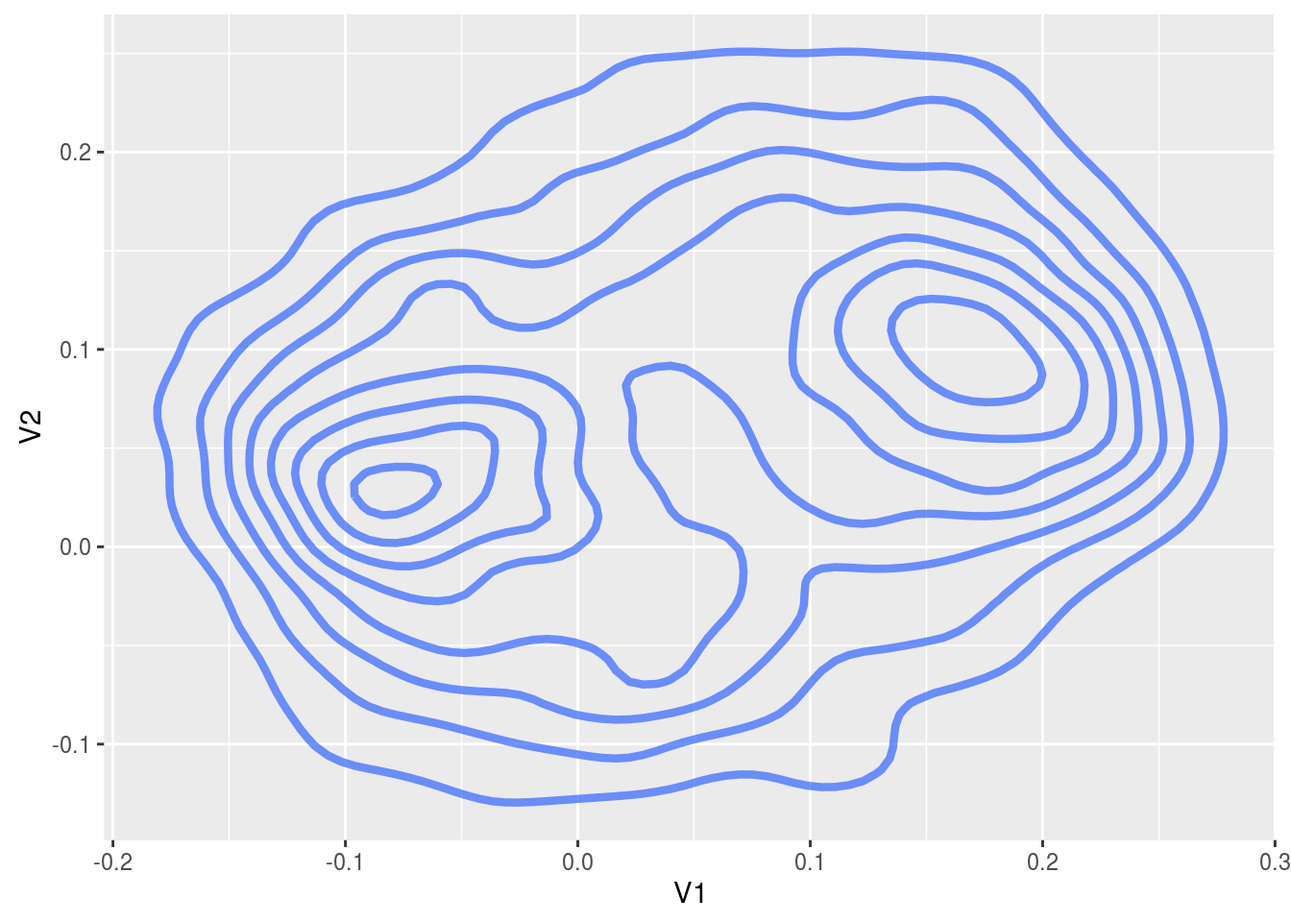
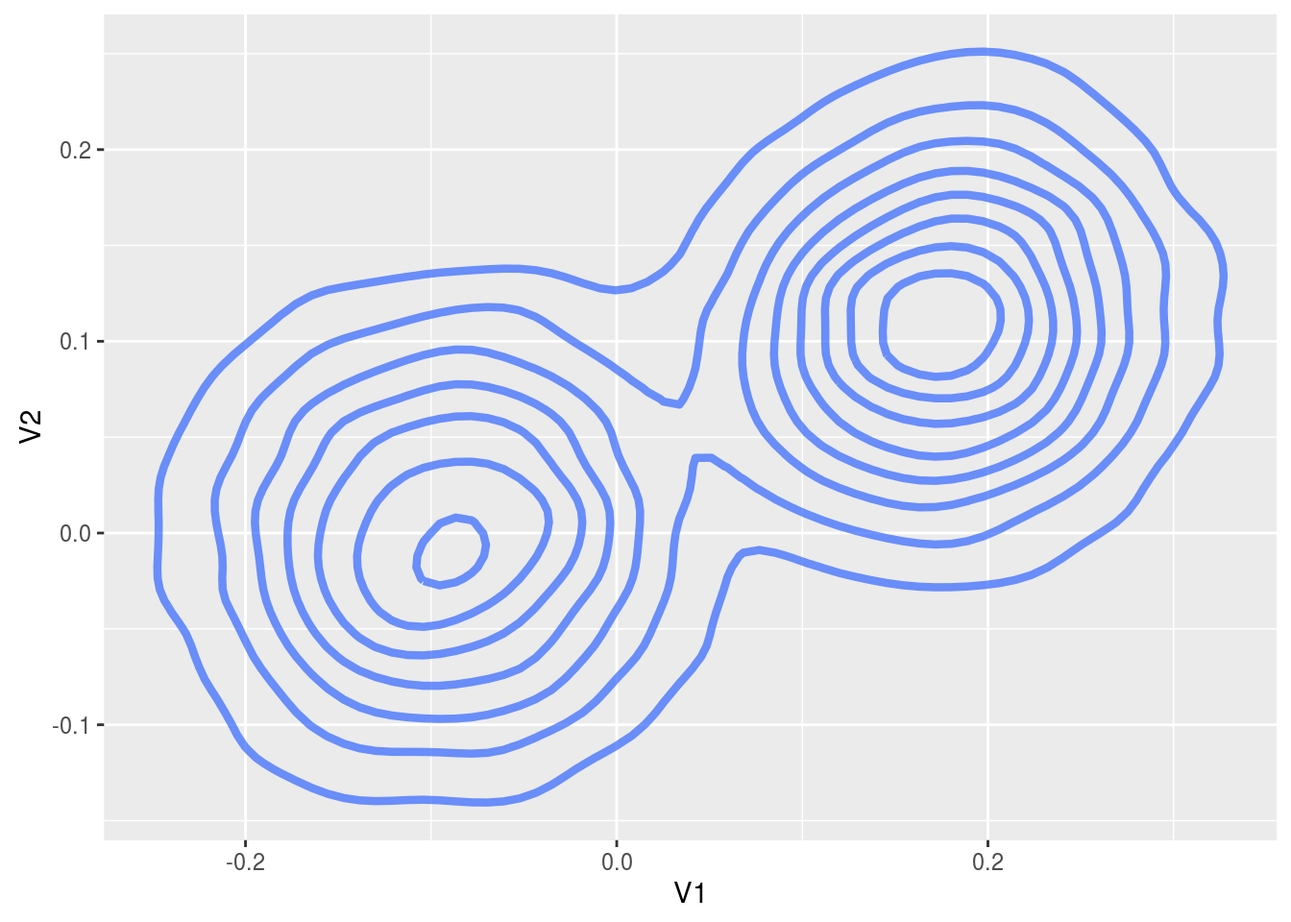
Fixed vignettes

diff --git a/docs/articles/gaussMixture.html b/docs/articles/gaussMixture.html
@@ -102,6 +102,7 @@ N =<span class="st"> </span><span class="dv">10</span>^<span class="dv">4</span>
 theta1 =<span class="st"> </span><span class="kw">c</span>( <span class="dv">0</span>, <span class="dv">0</span> )
 theta2 =<span class="st"> </span><span class="kw">c</span>( <span class="fl">0.1</span>, <span class="fl">0.1</span> )
 <span class="co"># Allocate observations to each component</span>
+<span class="kw">set.seed</span>(<span class="dv">13</span>)
 z =<span class="st"> </span><span class="kw">sample</span>( <span class="dv">2</span>, N, <span class="dt">replace =</span> <span class="ot">TRUE</span>, <span class="dt">prob =</span> <span class="kw">c</span>( <span class="fl">0.5</span>, <span class="fl">0.5</span> ) )
 <span class="co"># Predeclare data matrix</span>
 X =<span class="st"> </span><span class="kw">matrix</span>( <span class="kw">rep</span>( <span class="ot">NA</span>, <span class="dv">2</span>*N ), <span class="dt">ncol =</span> <span class="dv">2</span> )
@@ -145,122 +146,11 @@ dataset =<span class="st"> </span><span class="kw">list</span>(<span class="st">
     <span class="kw">return</span>( logPrior )
 }</code></pre></div>
 <p>Finally we set the tuning parameters for SGHMC, this is a list with the same names as the <code>params</code> list you defined earlier, and values are the stepsize for that parameter.</p>
-<div class="sourceCode"><pre class="sourceCode r"><code class="sourceCode r">stepsize =<span class="st"> </span><span class="kw">list</span>( <span class="st">"theta1"</span> =<span class="st"> </span><span class="fl">5e-6</span>, <span class="st">"theta2"</span> =<span class="st"> </span><span class="fl">5e-6</span> )</code></pre></div>
+<div class="sourceCode"><pre class="sourceCode r"><code class="sourceCode r">stepsize =<span class="st"> </span><span class="kw">list</span>( <span class="st">"theta1"</span> =<span class="st"> </span><span class="fl">2e-5</span>, <span class="st">"theta2"</span> =<span class="st"> </span><span class="fl">2e-5</span> )</code></pre></div>
 <p>Optionally, we can set the tuning parameter for the momentum <code>alpha</code> in the same way as the <code>stepsize</code>. But we’ll leave this along with the trajectory tuning constant <code>L</code>, and the <code>minibatchSize</code> as their defaults.</p>
-<p>Now we can run our SGHMC algorithm using the <code>sgmcmc</code> function <code>sghmc</code>, which returns a list of Markov chains for each parameter as output. Use the argument <code>verbose = FALSE</code> to hide the output of the function. We’ll set the number of iterations as <code>11000</code> to allow for <code>1000</code> iterations of burn-in.</p>
-<div class="sourceCode"><pre class="sourceCode r"><code class="sourceCode r">chains =<span class="st"> </span><span class="kw"><a href="../reference/sghmc.html">sghmc</a></span>( logLik, dataset, params, stepsize, <span class="dt">logPrior =</span> logPrior, <span class="dt">nIters =</span> <span class="dv">11000</span> )</code></pre></div>
-<pre><code>## 
-## Simulating from SGMCMC algorithm...</code></pre>
-<pre><code>## Iteration: 100       Log posterior estimate: -28719.369140625</code></pre>
-<pre><code>## Iteration: 200       Log posterior estimate: -29383.69921875</code></pre>
-<pre><code>## Iteration: 300       Log posterior estimate: -29427.1875</code></pre>
-<pre><code>## Iteration: 400       Log posterior estimate: -27538.099609375</code></pre>
-<pre><code>## Iteration: 500       Log posterior estimate: -28403.08203125</code></pre>
-<pre><code>## Iteration: 600       Log posterior estimate: -29618.3125</code></pre>
-<pre><code>## Iteration: 700       Log posterior estimate: -26516.8046875</code></pre>
-<pre><code>## Iteration: 800       Log posterior estimate: -28948.66015625</code></pre>
-<pre><code>## Iteration: 900       Log posterior estimate: -29428.353515625</code></pre>
-<pre><code>## Iteration: 1000      Log posterior estimate: -28317.662109375</code></pre>
-<pre><code>## Iteration: 1100      Log posterior estimate: -30113.087890625</code></pre>
-<pre><code>## Iteration: 1200      Log posterior estimate: -28836.306640625</code></pre>
-<pre><code>## Iteration: 1300      Log posterior estimate: -28544.11328125</code></pre>
-<pre><code>## Iteration: 1400      Log posterior estimate: -26969.271484375</code></pre>
-<pre><code>## Iteration: 1500      Log posterior estimate: -30244.40625</code></pre>
-<pre><code>## Iteration: 1600      Log posterior estimate: -27852.2578125</code></pre>
-<pre><code>## Iteration: 1700      Log posterior estimate: -28672.1328125</code></pre>
-<pre><code>## Iteration: 1800      Log posterior estimate: -28569.978515625</code></pre>
-<pre><code>## Iteration: 1900      Log posterior estimate: -29117.689453125</code></pre>
-<pre><code>## Iteration: 2000      Log posterior estimate: -27052.3515625</code></pre>
-<pre><code>## Iteration: 2100      Log posterior estimate: -28557.900390625</code></pre>
-<pre><code>## Iteration: 2200      Log posterior estimate: -27956.404296875</code></pre>
-<pre><code>## Iteration: 2300      Log posterior estimate: -28156.912109375</code></pre>
-<pre><code>## Iteration: 2400      Log posterior estimate: -28563.8515625</code></pre>
-<pre><code>## Iteration: 2500      Log posterior estimate: -28633.041015625</code></pre>
-<pre><code>## Iteration: 2600      Log posterior estimate: -29071.951171875</code></pre>
-<pre><code>## Iteration: 2700      Log posterior estimate: -28003.6328125</code></pre>
-<pre><code>## Iteration: 2800      Log posterior estimate: -28043.01953125</code></pre>
-<pre><code>## Iteration: 2900      Log posterior estimate: -27075.9453125</code></pre>
-<pre><code>## Iteration: 3000      Log posterior estimate: -31137.16015625</code></pre>
-<pre><code>## Iteration: 3100      Log posterior estimate: -29848.03125</code></pre>
-<pre><code>## Iteration: 3200      Log posterior estimate: -28094.62109375</code></pre>
-<pre><code>## Iteration: 3300      Log posterior estimate: -28197.140625</code></pre>
-<pre><code>## Iteration: 3400      Log posterior estimate: -29016.091796875</code></pre>
-<pre><code>## Iteration: 3500      Log posterior estimate: -27586.74609375</code></pre>
-<pre><code>## Iteration: 3600      Log posterior estimate: -29882.421875</code></pre>
-<pre><code>## Iteration: 3700      Log posterior estimate: -31118.888671875</code></pre>
-<pre><code>## Iteration: 3800      Log posterior estimate: -28034.296875</code></pre>
-<pre><code>## Iteration: 3900      Log posterior estimate: -30570.58984375</code></pre>
-<pre><code>## Iteration: 4000      Log posterior estimate: -30071.6796875</code></pre>
-<pre><code>## Iteration: 4100      Log posterior estimate: -28933.384765625</code></pre>
-<pre><code>## Iteration: 4200      Log posterior estimate: -27226.58203125</code></pre>
-<pre><code>## Iteration: 4300      Log posterior estimate: -28487.431640625</code></pre>
-<pre><code>## Iteration: 4400      Log posterior estimate: -28269.06640625</code></pre>
-<pre><code>## Iteration: 4500      Log posterior estimate: -28781.978515625</code></pre>
-<pre><code>## Iteration: 4600      Log posterior estimate: -27510.130859375</code></pre>
-<pre><code>## Iteration: 4700      Log posterior estimate: -28757.619140625</code></pre>
-<pre><code>## Iteration: 4800      Log posterior estimate: -28928.765625</code></pre>
-<pre><code>## Iteration: 4900      Log posterior estimate: -29603.771484375</code></pre>
-<pre><code>## Iteration: 5000      Log posterior estimate: -29092.431640625</code></pre>
-<pre><code>## Iteration: 5100      Log posterior estimate: -29123.265625</code></pre>
-<pre><code>## Iteration: 5200      Log posterior estimate: -27272.23828125</code></pre>
-<pre><code>## Iteration: 5300      Log posterior estimate: -27513.525390625</code></pre>
-<pre><code>## Iteration: 5400      Log posterior estimate: -26202.083984375</code></pre>
-<pre><code>## Iteration: 5500      Log posterior estimate: -29214.7734375</code></pre>
-<pre><code>## Iteration: 5600      Log posterior estimate: -28753.658203125</code></pre>
-<pre><code>## Iteration: 5700      Log posterior estimate: -29103.078125</code></pre>
-<pre><code>## Iteration: 5800      Log posterior estimate: -28998.171875</code></pre>
-<pre><code>## Iteration: 5900      Log posterior estimate: -29490.40234375</code></pre>
-<pre><code>## Iteration: 6000      Log posterior estimate: -29693.2578125</code></pre>
-<pre><code>## Iteration: 6100      Log posterior estimate: -30538.4609375</code></pre>
-<pre><code>## Iteration: 6200      Log posterior estimate: -28252.845703125</code></pre>
-<pre><code>## Iteration: 6300      Log posterior estimate: -28345.201171875</code></pre>
-<pre><code>## Iteration: 6400      Log posterior estimate: -29507.955078125</code></pre>
-<pre><code>## Iteration: 6500      Log posterior estimate: -28265.408203125</code></pre>
-<pre><code>## Iteration: 6600      Log posterior estimate: -29579.189453125</code></pre>
-<pre><code>## Iteration: 6700      Log posterior estimate: -29745.96875</code></pre>
-<pre><code>## Iteration: 6800      Log posterior estimate: -28311.5859375</code></pre>
-<pre><code>## Iteration: 6900      Log posterior estimate: -26832.41796875</code></pre>
-<pre><code>## Iteration: 7000      Log posterior estimate: -30470.15234375</code></pre>
-<pre><code>## Iteration: 7100      Log posterior estimate: -26968.400390625</code></pre>
-<pre><code>## Iteration: 7200      Log posterior estimate: -28493.611328125</code></pre>
-<pre><code>## Iteration: 7300      Log posterior estimate: -28206.962890625</code></pre>
-<pre><code>## Iteration: 7400      Log posterior estimate: -28784.126953125</code></pre>
-<pre><code>## Iteration: 7500      Log posterior estimate: -29283.021484375</code></pre>
-<pre><code>## Iteration: 7600      Log posterior estimate: -29409.041015625</code></pre>
-<pre><code>## Iteration: 7700      Log posterior estimate: -28869.142578125</code></pre>
-<pre><code>## Iteration: 7800      Log posterior estimate: -28275.88671875</code></pre>
-<pre><code>## Iteration: 7900      Log posterior estimate: -28763.619140625</code></pre>
-<pre><code>## Iteration: 8000      Log posterior estimate: -26169.0625</code></pre>
-<pre><code>## Iteration: 8100      Log posterior estimate: -29290.4921875</code></pre>
-<pre><code>## Iteration: 8200      Log posterior estimate: -29966.048828125</code></pre>
-<pre><code>## Iteration: 8300      Log posterior estimate: -29749.1171875</code></pre>
-<pre><code>## Iteration: 8400      Log posterior estimate: -28194.0078125</code></pre>
-<pre><code>## Iteration: 8500      Log posterior estimate: -28221.193359375</code></pre>
-<pre><code>## Iteration: 8600      Log posterior estimate: -31664.564453125</code></pre>
-<pre><code>## Iteration: 8700      Log posterior estimate: -29111.189453125</code></pre>
-<pre><code>## Iteration: 8800      Log posterior estimate: -32337.2265625</code></pre>
-<pre><code>## Iteration: 8900      Log posterior estimate: -26593.94140625</code></pre>
-<pre><code>## Iteration: 9000      Log posterior estimate: -29162.703125</code></pre>
-<pre><code>## Iteration: 9100      Log posterior estimate: -29858.796875</code></pre>
-<pre><code>## Iteration: 9200      Log posterior estimate: -30675.59375</code></pre>
-<pre><code>## Iteration: 9300      Log posterior estimate: -27055.330078125</code></pre>
-<pre><code>## Iteration: 9400      Log posterior estimate: -29754.302734375</code></pre>
-<pre><code>## Iteration: 9500      Log posterior estimate: -29872.865234375</code></pre>
-<pre><code>## Iteration: 9600      Log posterior estimate: -29504.390625</code></pre>
-<pre><code>## Iteration: 9700      Log posterior estimate: -27973.48828125</code></pre>
-<pre><code>## Iteration: 9800      Log posterior estimate: -30388.78125</code></pre>
-<pre><code>## Iteration: 9900      Log posterior estimate: -28682.033203125</code></pre>
-<pre><code>## Iteration: 10000     Log posterior estimate: -27773.330078125</code></pre>
-<pre><code>## Iteration: 10100     Log posterior estimate: -27842.634765625</code></pre>
-<pre><code>## Iteration: 10200     Log posterior estimate: -27997.08984375</code></pre>
-<pre><code>## Iteration: 10300     Log posterior estimate: -29380.32421875</code></pre>
-<pre><code>## Iteration: 10400     Log posterior estimate: -27242.87890625</code></pre>
-<pre><code>## Iteration: 10500     Log posterior estimate: -27683.48046875</code></pre>
-<pre><code>## Iteration: 10600     Log posterior estimate: -28486.1171875</code></pre>
-<pre><code>## Iteration: 10700     Log posterior estimate: -28491.369140625</code></pre>
-<pre><code>## Iteration: 10800     Log posterior estimate: -29544.869140625</code></pre>
-<pre><code>## Iteration: 10900     Log posterior estimate: -28308.736328125</code></pre>
-<pre><code>## Iteration: 11000     Log posterior estimate: -28156.31640625</code></pre>
+<p>Now we can run our SGHMC algorithm using the <code>sgmcmc</code> function <code>sghmc</code>, which returns a list of Markov chains for each parameter as output. Use the argument <code>verbose = FALSE</code> to hide the output of the function. To make the results reproducible we’ll set the seed to 13. We’ll set the number of iterations as <code>11000</code> to allow for <code>1000</code> iterations of burn-in.</p>
+<div class="sourceCode"><pre class="sourceCode r"><code class="sourceCode r">chains =<span class="st"> </span><span class="kw"><a href="../reference/sghmc.html">sghmc</a></span>( logLik, dataset, params, stepsize, <span class="dt">logPrior =</span> logPrior, <span class="dt">nIters =</span> <span class="dv">11000</span>, 
+        <span class="dt">verbose =</span> <span class="ot">FALSE</span>, <span class="dt">seed =</span> <span class="dv">13</span> )</code></pre></div>
 <p>Finally, we’ll plot the results after removing burn-in</p>
 <div class="sourceCode"><pre class="sourceCode r"><code class="sourceCode r"><span class="kw">library</span>(ggplot2)
 <span class="co"># Remove burn in</span>

diff --git a/docs/articles/mvGauss.html b/docs/articles/mvGauss.html
@@ -101,6 +101,7 @@ N =<span class="st"> </span><span class="dv">10</span>^<span class="dv">4</span>
 <span class="co"># Set theta to be 0 and simulate the data</span>
 theta =<span class="st"> </span><span class="kw">c</span>( <span class="dv">0</span>, <span class="dv">0</span> )
 Sigma =<span class="st"> </span><span class="kw">diag</span>(<span class="dv">2</span>)
+<span class="kw">set.seed</span>(<span class="dv">13</span>)
 X =<span class="st"> </span><span class="kw"><a href="http://www.rdocumentation.org/packages/MASS/topics/mvrnorm">mvrnorm</a></span>( N, theta, Sigma )
 dataset =<span class="st"> </span><span class="kw">list</span>(<span class="st">"X"</span> =<span class="st"> </span>X)</code></pre></div>
 <p>In the last line we defined the dataset as it will be input to the relevant <code>sgmcmc</code> function. A lot of the inputs to functions in <code>sgmcmc</code> are defined as lists. This improves flexibility by enabling models to be specified with multiple parameters, datasets and allows separate tuning constants to be set for each parameter. We assume that observations are always accessed on the first dimension of each object, i.e. the point <span class="math inline">\(x_i\)</span> is located at <code>X[i,]</code> rather than <code>X[,i]</code>. Similarly the observation <span class="math inline">\(i\)</span> from a 3d object <code>Y</code> would be located at <code>Y[i,,]</code>.</p>
@@ -126,110 +127,9 @@ dataset =<span class="st"> </span><span class="kw">list</span>(<span class="st">
 <div class="sourceCode"><pre class="sourceCode r"><code class="sourceCode r">stepsize =<span class="st"> </span><span class="kw">list</span>( <span class="st">"theta"</span> =<span class="st"> </span><span class="fl">1e-5</span> )
 n =<span class="st"> </span><span class="dv">100</span></code></pre></div>
 <p>The stepsize parameters may require a bit of tuning before you get good results. The shorthand <code>stepsize = 1e-5</code> can be used, which would set the stepsize of all parameters to be <code>1e-5</code>.</p>
-<p>Now we can run our SGLD algorithm using the <code>sgmcmc</code> function <code>sgld</code>, which returns a list of Markov chains for each parameter as output. Use the argument <code>verbose = FALSE</code> to hide the output of the function</p>
-<div class="sourceCode"><pre class="sourceCode r"><code class="sourceCode r">chains =<span class="st"> </span><span class="kw"><a href="../reference/sgld.html">sgld</a></span>( logLik, dataset, params, stepsize, <span class="dt">logPrior =</span> logPrior, <span class="dt">minibatchSize =</span> n)</code></pre></div>
-<pre><code>## 
-## Simulating from SGMCMC algorithm...</code></pre>
-<pre><code>## Iteration: 100       Log posterior estimate: -28428.341796875</code></pre>
-<pre><code>## Iteration: 200       Log posterior estimate: -29417.0703125</code></pre>
-<pre><code>## Iteration: 300       Log posterior estimate: -27884.021484375</code></pre>
-<pre><code>## Iteration: 400       Log posterior estimate: -28420.42578125</code></pre>
-<pre><code>## Iteration: 500       Log posterior estimate: -29067.966796875</code></pre>
-<pre><code>## Iteration: 600       Log posterior estimate: -27948.66796875</code></pre>
-<pre><code>## Iteration: 700       Log posterior estimate: -27362.54296875</code></pre>
-<pre><code>## Iteration: 800       Log posterior estimate: -29005.197265625</code></pre>
-<pre><code>## Iteration: 900       Log posterior estimate: -28715.779296875</code></pre>
-<pre><code>## Iteration: 1000      Log posterior estimate: -27714.4453125</code></pre>
-<pre><code>## Iteration: 1100      Log posterior estimate: -28110.001953125</code></pre>
-<pre><code>## Iteration: 1200      Log posterior estimate: -27506.828125</code></pre>
-<pre><code>## Iteration: 1300      Log posterior estimate: -30454.099609375</code></pre>
-<pre><code>## Iteration: 1400      Log posterior estimate: -28035.814453125</code></pre>
-<pre><code>## Iteration: 1500      Log posterior estimate: -29121.677734375</code></pre>
-<pre><code>## Iteration: 1600      Log posterior estimate: -27398.033203125</code></pre>
-<pre><code>## Iteration: 1700      Log posterior estimate: -26906.67578125</code></pre>
-<pre><code>## Iteration: 1800      Log posterior estimate: -28810.4296875</code></pre>
-<pre><code>## Iteration: 1900      Log posterior estimate: -28685.619140625</code></pre>
-<pre><code>## Iteration: 2000      Log posterior estimate: -28313.107421875</code></pre>
-<pre><code>## Iteration: 2100      Log posterior estimate: -30114.875</code></pre>
-<pre><code>## Iteration: 2200      Log posterior estimate: -27902.228515625</code></pre>
-<pre><code>## Iteration: 2300      Log posterior estimate: -29135.34375</code></pre>
-<pre><code>## Iteration: 2400      Log posterior estimate: -27819.720703125</code></pre>
-<pre><code>## Iteration: 2500      Log posterior estimate: -28279.0390625</code></pre>
-<pre><code>## Iteration: 2600      Log posterior estimate: -28195.15234375</code></pre>
-<pre><code>## Iteration: 2700      Log posterior estimate: -29552.658203125</code></pre>
-<pre><code>## Iteration: 2800      Log posterior estimate: -27952.54296875</code></pre>
-<pre><code>## Iteration: 2900      Log posterior estimate: -28244.400390625</code></pre>
-<pre><code>## Iteration: 3000      Log posterior estimate: -28956.638671875</code></pre>
-<pre><code>## Iteration: 3100      Log posterior estimate: -28250.30859375</code></pre>
-<pre><code>## Iteration: 3200      Log posterior estimate: -28743.73828125</code></pre>
-<pre><code>## Iteration: 3300      Log posterior estimate: -28073.431640625</code></pre>
-<pre><code>## Iteration: 3400      Log posterior estimate: -29016.97265625</code></pre>
-<pre><code>## Iteration: 3500      Log posterior estimate: -29252.048828125</code></pre>
-<pre><code>## Iteration: 3600      Log posterior estimate: -27981.2109375</code></pre>
-<pre><code>## Iteration: 3700      Log posterior estimate: -27039.083984375</code></pre>
-<pre><code>## Iteration: 3800      Log posterior estimate: -28848.3984375</code></pre>
-<pre><code>## Iteration: 3900      Log posterior estimate: -28582.38671875</code></pre>
-<pre><code>## Iteration: 4000      Log posterior estimate: -26189.544921875</code></pre>
-<pre><code>## Iteration: 4100      Log posterior estimate: -29544.181640625</code></pre>
-<pre><code>## Iteration: 4200      Log posterior estimate: -26145.712890625</code></pre>
-<pre><code>## Iteration: 4300      Log posterior estimate: -28617.642578125</code></pre>
-<pre><code>## Iteration: 4400      Log posterior estimate: -28524.443359375</code></pre>
-<pre><code>## Iteration: 4500      Log posterior estimate: -26953.5078125</code></pre>
-<pre><code>## Iteration: 4600      Log posterior estimate: -28087.634765625</code></pre>
-<pre><code>## Iteration: 4700      Log posterior estimate: -28415.9765625</code></pre>
-<pre><code>## Iteration: 4800      Log posterior estimate: -30994.251953125</code></pre>
-<pre><code>## Iteration: 4900      Log posterior estimate: -27977.830078125</code></pre>
-<pre><code>## Iteration: 5000      Log posterior estimate: -25856.615234375</code></pre>
-<pre><code>## Iteration: 5100      Log posterior estimate: -28064.4453125</code></pre>
-<pre><code>## Iteration: 5200      Log posterior estimate: -27441.1171875</code></pre>
-<pre><code>## Iteration: 5300      Log posterior estimate: -28263.224609375</code></pre>
-<pre><code>## Iteration: 5400      Log posterior estimate: -29668.052734375</code></pre>
-<pre><code>## Iteration: 5500      Log posterior estimate: -26580.826171875</code></pre>
-<pre><code>## Iteration: 5600      Log posterior estimate: -26733.357421875</code></pre>
-<pre><code>## Iteration: 5700      Log posterior estimate: -27492.119140625</code></pre>
-<pre><code>## Iteration: 5800      Log posterior estimate: -25981.529296875</code></pre>
-<pre><code>## Iteration: 5900      Log posterior estimate: -28201.31640625</code></pre>
-<pre><code>## Iteration: 6000      Log posterior estimate: -26659.74609375</code></pre>
-<pre><code>## Iteration: 6100      Log posterior estimate: -28312.318359375</code></pre>
-<pre><code>## Iteration: 6200      Log posterior estimate: -28489.748046875</code></pre>
-<pre><code>## Iteration: 6300      Log posterior estimate: -27967.69140625</code></pre>
-<pre><code>## Iteration: 6400      Log posterior estimate: -27962.232421875</code></pre>
-<pre><code>## Iteration: 6500      Log posterior estimate: -27404.94140625</code></pre>
-<pre><code>## Iteration: 6600      Log posterior estimate: -29440.0546875</code></pre>
-<pre><code>## Iteration: 6700      Log posterior estimate: -28145.63671875</code></pre>
-<pre><code>## Iteration: 6800      Log posterior estimate: -27360.572265625</code></pre>
-<pre><code>## Iteration: 6900      Log posterior estimate: -27016.3828125</code></pre>
-<pre><code>## Iteration: 7000      Log posterior estimate: -26899.478515625</code></pre>
-<pre><code>## Iteration: 7100      Log posterior estimate: -28412.623046875</code></pre>
-<pre><code>## Iteration: 7200      Log posterior estimate: -26459.2265625</code></pre>
-<pre><code>## Iteration: 7300      Log posterior estimate: -26993.330078125</code></pre>
-<pre><code>## Iteration: 7400      Log posterior estimate: -28671.8671875</code></pre>
-<pre><code>## Iteration: 7500      Log posterior estimate: -26841.708984375</code></pre>
-<pre><code>## Iteration: 7600      Log posterior estimate: -28045.658203125</code></pre>
-<pre><code>## Iteration: 7700      Log posterior estimate: -28832.966796875</code></pre>
-<pre><code>## Iteration: 7800      Log posterior estimate: -28744.751953125</code></pre>
-<pre><code>## Iteration: 7900      Log posterior estimate: -27359.291015625</code></pre>
-<pre><code>## Iteration: 8000      Log posterior estimate: -28128.703125</code></pre>
-<pre><code>## Iteration: 8100      Log posterior estimate: -27778.12890625</code></pre>
-<pre><code>## Iteration: 8200      Log posterior estimate: -27634.57421875</code></pre>
-<pre><code>## Iteration: 8300      Log posterior estimate: -27608.966796875</code></pre>
-<pre><code>## Iteration: 8400      Log posterior estimate: -27216.728515625</code></pre>
-<pre><code>## Iteration: 8500      Log posterior estimate: -28224.13671875</code></pre>
-<pre><code>## Iteration: 8600      Log posterior estimate: -29911.912109375</code></pre>
-<pre><code>## Iteration: 8700      Log posterior estimate: -28497.734375</code></pre>
-<pre><code>## Iteration: 8800      Log posterior estimate: -28329.220703125</code></pre>
-<pre><code>## Iteration: 8900      Log posterior estimate: -28304.5546875</code></pre>
-<pre><code>## Iteration: 9000      Log posterior estimate: -29003.556640625</code></pre>
-<pre><code>## Iteration: 9100      Log posterior estimate: -27501.759765625</code></pre>
-<pre><code>## Iteration: 9200      Log posterior estimate: -27819.474609375</code></pre>
-<pre><code>## Iteration: 9300      Log posterior estimate: -26788.828125</code></pre>
-<pre><code>## Iteration: 9400      Log posterior estimate: -29219.9375</code></pre>
-<pre><code>## Iteration: 9500      Log posterior estimate: -28447.578125</code></pre>
-<pre><code>## Iteration: 9600      Log posterior estimate: -28826.3046875</code></pre>
-<pre><code>## Iteration: 9700      Log posterior estimate: -27940.66015625</code></pre>
-<pre><code>## Iteration: 9800      Log posterior estimate: -29051.28515625</code></pre>
-<pre><code>## Iteration: 9900      Log posterior estimate: -27574.6171875</code></pre>
-<pre><code>## Iteration: 10000     Log posterior estimate: -29370.17578125</code></pre>
+<p>Now we can run our SGLD algorithm using the <code>sgmcmc</code> function <code>sgld</code>, which returns a list of Markov chains for each parameter as output. To make the results reproducible we’ll set the seed to 13. Use the argument <code>verbose = FALSE</code> to hide the output of the function</p>
+<div class="sourceCode"><pre class="sourceCode r"><code class="sourceCode r">chains =<span class="st"> </span><span class="kw"><a href="../reference/sgld.html">sgld</a></span>( logLik, dataset, params, stepsize, <span class="dt">logPrior =</span> logPrior, <span class="dt">minibatchSize =</span> n, 
+              <span class="dt">verbose =</span> <span class="ot">FALSE</span>, <span class="dt">seed =</span> <span class="dv">13</span> )</code></pre></div>
 <p>Finally we’ll plot the results after removing burn-in</p>
 <div class="sourceCode"><pre class="sourceCode r"><code class="sourceCode r"><span class="kw">library</span>(ggplot2)
 burnIn =<span class="st"> </span><span class="dv">10</span>^<span class="dv">3</span>

diff --git a/docs/articles/logisticRegression.html b/docs/articles/logisticRegression.html
@@ -100,7 +100,8 @@
 <span class="co"># Download and load covertype dataset</span>
 covertype =<span class="st"> </span><span class="kw"><a href="../reference/getDataset.html">getDataset</a></span>(<span class="st">"covertype"</span>)</code></pre></div>
 <p>First we’ll remove about 10000 observations from the original dataset to form a test set, this will be used to check the validity of the algorithm. Then we’ll separate out the response variable <code>y</code> and the explanatory variables <code>X</code>. The response variable is the first column in the dataset.</p>
-<div class="sourceCode"><pre class="sourceCode r"><code class="sourceCode r">testObservations =<span class="st"> </span><span class="kw">sample</span>(<span class="kw">nrow</span>(covertype), <span class="dv">10</span>^<span class="dv">4</span>)
+<div class="sourceCode"><pre class="sourceCode r"><code class="sourceCode r"><span class="kw">set.seed</span>(<span class="dv">13</span>)
+testObservations =<span class="st"> </span><span class="kw">sample</span>(<span class="kw">nrow</span>(covertype), <span class="dv">10</span>^<span class="dv">4</span>)
 testSet =<span class="st"> </span>covertype[testObservations,]
 X =<span class="st"> </span>covertype[-<span class="kw">c</span>(testObservations),<span class="dv">2</span>:<span class="kw">ncol</span>(covertype)]
 y =<span class="st"> </span>covertype[-<span class="kw">c</span>(testObservations),<span class="dv">1</span>]
@@ -122,25 +123,22 @@ params =<span class="st"> </span><span class="kw">list</span>( <span class="st">
     <span class="kw">return</span>(logPrior)
 }</code></pre></div>
 <p>Finally, we’ll set the stepsize parameters for the algorithm, along with the minibatch size. <code>sgldcv</code> relies on two stepsize parameters, one for the optimization step and one for the MCMC step. To allow stepsizes to be set for different parameters, the form of the stepsizes for the MCMC will be lists with names corresponding to each of the names in <code>params</code>. The optimization step will just be one value as the stepsize is automatically tuned</p>
-<div class="sourceCode"><pre class="sourceCode r"><code class="sourceCode r">stepsizesMCMC =<span class="st"> </span><span class="kw">list</span>(<span class="st">"beta"</span> =<span class="st"> </span><span class="fl">2e-5</span>, <span class="st">"bias"</span> =<span class="st"> </span><span class="fl">2e-5</span>)
-stepsizesOptimization =<span class="st"> </span><span class="fl">1e-1</span></code></pre></div>
+<div class="sourceCode"><pre class="sourceCode r"><code class="sourceCode r">stepsizesMCMC =<span class="st"> </span><span class="kw">list</span>(<span class="st">"beta"</span> =<span class="st"> </span><span class="fl">5e-6</span>, <span class="st">"bias"</span> =<span class="st"> </span><span class="fl">5e-6</span>)
+stepsizesOptimization =<span class="st"> </span><span class="fl">5e-6</span></code></pre></div>
 <p>Alternatively, we can simply use the shortcut <code>stepsizesMCMC = 2e-5</code> which would set the stepsizes for each parameter to <code>2e-5</code>. The optimization step is performed using the <code>TensorFlow</code> <code>AdamOptimizer</code>.</p>
-<p>Now we can run our SGLD-CV algorithm using the function <code>sgldcv</code> from the <code>sgmcmc</code> package, which returns a list of Markov chains for each parameter as output. Use the argument <code>verbose = FALSE</code> to hide the output of the function. As the dataset size is quite large, we’ll change the <code>minibatchSize</code> from its default <code>0.01 * N</code> to <code>500</code>. To allow a small 1000 iteration burn-in we’ll set the number of iterations to be 11000</p>
-<div class="sourceCode"><pre class="sourceCode r"><code class="sourceCode r">output =<span class="st"> </span><span class="kw"><a href="../reference/sgldcv.html">sgldcv</a></span>(logLik, dataset, params, stepsizesMCMC, stepsizesOptimization, <span class="dt">logPrior =</span> logPrior, <span class="dt">minibatchSize =</span> <span class="dv">500</span>, <span class="dt">nIters =</span> <span class="dv">11000</span> ) </code></pre></div>
-<pre><code>## 
-## Finding initial MAP estimates...</code></pre>
-<pre><code>## Not all tensorflow dependencies are met so skipping this...
-## Try running tensorflow::install_tensorflow().</code></pre>
-<p>To check the algorithm converged, we’ll plot the average log-predictive density of the data from our test set every 10 iterations. Let <span class="math display">\[\hat \pi_i^{(j)} := \frac{1}{1 + \exp\left[-\beta_0^{(j)} - \mathbf x_i \beta^{(j)}\right]},\]</span> here <span class="math inline">\(\hat \pi_i^{(j)}\)</span> denotes the probability that the <span class="math inline">\(j^{\text{th}}\)</span> iteration of our MCMC chain assigned to observation <span class="math inline">\(i\)</span> is in our test set. Define our test set by <span class="math inline">\(T\)</span>, the average log-predictive density is given by <span class="math display">\[A := \frac{1}{|T|} \sum_{y_i \in T} \left[ y_i \log \hat \pi_i^{(j)} + (1 - y_i) \log(1 - \hat \pi_i^{(j)}) \right]\]</span></p>
-<p>To check convergence, we’ll plot the average log-predictive density every 10 iterations as follows</p>
+<p>Now we can run our SGLD-CV algorithm using the function <code>sgldcv</code> from the <code>sgmcmc</code> package, which returns a list of Markov chains for each parameter as output. Use the argument <code>verbose = FALSE</code> to hide the output of the function. To make the results reproducible we’ll set the seed to 13. As the dataset size is quite large, we’ll change the <code>minibatchSize</code> from its default <code>0.01 * N</code> to <code>500</code>. To allow a small 1000 iteration burn-in we’ll set the number of iterations to be 11000</p>
+<div class="sourceCode"><pre class="sourceCode r"><code class="sourceCode r">output =<span class="st"> </span><span class="kw"><a href="../reference/sgldcv.html">sgldcv</a></span>(logLik, dataset, params, stepsizesMCMC, stepsizesOptimization, <span class="dt">logPrior =</span> logPrior, 
+        <span class="dt">minibatchSize =</span> <span class="dv">500</span>, <span class="dt">nIters =</span> <span class="dv">11000</span>, <span class="dt">verbose =</span> <span class="ot">FALSE</span>, <span class="dt">seed =</span> <span class="dv">13</span> ) </code></pre></div>
+<p>A common performance measure for a classifier is the <a href="https://www.kaggle.com/wiki/LogLoss">log loss</a>. To check the algorithm converged, we’ll plot the log loss of the data from our test set every 10 iterations. Let <span class="math display">\[\hat \pi_i^{(j)} := \frac{1}{1 + \exp\left[-\beta_0^{(j)} - \mathbf x_i \beta^{(j)}\right]},\]</span> here <span class="math inline">\(\hat \pi_i^{(j)}\)</span> denotes the probability that the <span class="math inline">\(j^{\text{th}}\)</span> iteration of our MCMC chain assigned to observation <span class="math inline">\(i\)</span> is in our test set. Define our test set by <span class="math inline">\(T\)</span>, the log loss is given by <span class="math display">\[A := \frac{1}{|T|} \sum_{y_i \in T} \left[ y_i \log \hat \pi_i^{(j)} + (1 - y_i) \log(1 - \hat \pi_i^{(j)}) \right]\]</span></p>
+<p>To check convergence, we’ll plot the log loss every 10 iterations as follows</p>
 <div class="sourceCode"><pre class="sourceCode r"><code class="sourceCode r">yTest =<span class="st"> </span>testSet[,<span class="dv">1</span>]
 XTest =<span class="st"> </span>testSet[,<span class="dv">2</span>:<span class="kw">ncol</span>(testSet)]
 <span class="co"># Remove burn-in</span>
 output$bias =<span class="st"> </span>output$bias[-<span class="kw">c</span>(<span class="dv">1</span>:<span class="dv">1000</span>)]
 output$beta =<span class="st"> </span>output$beta[-<span class="kw">c</span>(<span class="dv">1</span>:<span class="dv">1000</span>),,]
 iterations =<span class="st"> </span><span class="kw">seq</span>(<span class="dt">from =</span> <span class="dv">1</span>, <span class="dt">to =</span> <span class="dv">10</span>^<span class="dv">4</span>, <span class="dt">by =</span> <span class="dv">10</span>)
-avLogPred =<span class="st"> </span><span class="kw">rep</span>(<span class="dv">0</span>, <span class="kw">length</span>(iterations))
-<span class="co"># Calculate log predictive every 10 iterations</span>
+logLoss =<span class="st"> </span><span class="kw">rep</span>(<span class="dv">0</span>, <span class="kw">length</span>(iterations))
+<span class="co"># Calculate log loss every 10 iterations</span>
 for ( iter in <span class="dv">1</span>:<span class="kw">length</span>(iterations) ) {
     j =<span class="st"> </span>iterations[iter]
     <span class="co"># Get parameters at iteration j</span>
@@ -149,18 +147,17 @@ for ( iter in <span class="dv">1</span>:<span class="kw">length</span>(iteration
     for ( i in <span class="dv">1</span>:<span class="kw">length</span>(yTest) ) {
         pihat_ij =<span class="st"> </span><span class="dv">1</span> /<span class="st"> </span>(<span class="dv">1</span> +<span class="st"> </span><span class="kw">exp</span>(-<span class="st"> </span>beta0_j -<span class="st"> </span><span class="kw">sum</span>(XTest[i,] *<span class="st"> </span>beta_j)))
         y_i =<span class="st"> </span>yTest[i]
-        <span class="co"># Calculate log predictive at current test set point</span>
+        <span class="co"># Calculate log loss at current test set point</span>
         LogPred_curr =<span class="st"> </span>-<span class="st"> </span>(y_i *<span class="st"> </span><span class="kw">log</span>(pihat_ij) +<span class="st"> </span>(<span class="dv">1</span> -<span class="st"> </span>y_i) *<span class="st"> </span><span class="kw">log</span>(<span class="dv">1</span> -<span class="st"> </span>pihat_ij))
-        avLogPred[iter] =<span class="st"> </span>avLogPred[iter] +<span class="st"> </span><span class="dv">1</span> /<span class="st"> </span><span class="kw">length</span>(yTest) *<span class="st"> </span>LogPred_curr
+        logLoss[iter] =<span class="st"> </span>logLoss[iter] +<span class="st"> </span><span class="dv">1</span> /<span class="st"> </span><span class="kw">length</span>(yTest) *<span class="st"> </span>LogPred_curr
     }
 }
 <span class="kw">library</span>(ggplot2)
-plotFrame =<span class="st"> </span><span class="kw">data.frame</span>(<span class="st">"iteration"</span> =<span class="st"> </span>iterations, <span class="st">"logPredictive"</span> =<span class="st"> </span>avLogPred)
-<span class="kw"><a href="http://www.rdocumentation.org/packages/ggplot2/topics/ggplot">ggplot</a></span>(plotFrame, <span class="kw"><a href="http://www.rdocumentation.org/packages/ggplot2/topics/aes">aes</a></span>(<span class="dt">x =</span> iteration, <span class="dt">y =</span> logPredictive)) +
+plotFrame =<span class="st"> </span><span class="kw">data.frame</span>(<span class="st">"iteration"</span> =<span class="st"> </span>iterations, <span class="st">"logLoss"</span> =<span class="st"> </span>logLoss)
+<span class="kw"><a href="http://www.rdocumentation.org/packages/ggplot2/topics/ggplot">ggplot</a></span>(plotFrame, <span class="kw"><a href="http://www.rdocumentation.org/packages/ggplot2/topics/aes">aes</a></span>(<span class="dt">x =</span> iteration, <span class="dt">y =</span> logLoss)) +
 <span class="st">    </span><span class="kw"><a href="http://www.rdocumentation.org/packages/ggplot2/topics/geom_path">geom_line</a></span>() +
-<span class="st">    </span><span class="kw"><a href="http://www.rdocumentation.org/packages/ggplot2/topics/labs">ylab</a></span>(<span class="st">"Average log predictive of test set"</span>)</code></pre></div>
-<pre><code>## Not all tensorflow dependencies are met so skipping this...
-## Try running tensorflow::install_tensorflow().</code></pre>
+<span class="st">    </span><span class="kw"><a href="http://www.rdocumentation.org/packages/ggplot2/topics/labs">ylab</a></span>(<span class="st">"Log loss of test set"</span>)</code></pre></div>
+<p><img src="logisticRegression_files/figure-html/unnamed-chunk-10-1.png" width="672"></p>
 </div>
   </div>
 

diff --git a/docs/articles/nn.html b/docs/articles/nn.html
@@ -147,9 +147,10 @@ logPrior =<span class="st"> </span>function(params) {
     logPrior =<span class="st"> </span>logPriorA +<span class="st"> </span>logPriorB +<span class="st"> </span>logPriora +<span class="st"> </span>logPriorb
     <span class="kw">return</span>(logPrior)
 }</code></pre></div>
-<p>Now suppose we want to make inference using stochastic gradient Langevin dynamics (SGLD). If we do this in the normal way then we will most likely run out of memory when the function builds the array to store the output. So instead we just initialize an <code>sgld</code> object using <code>sgldSetup</code>. Similarly we could build an <code>sgldcv</code> object using <code>sgldcvSetup</code> or an <code>sgnht</code> object using <code>sgnhtSetup</code>. Then we can run the SGLD algorithm one step at a time and decide what to do with the output at each iteration ourselves. We’ll just set our stepsize to <code>1e-4</code> for this example, so to build our <code>sgld</code> object we run</p>
+<p>Now suppose we want to make inference using stochastic gradient Langevin dynamics (SGLD). If we do this in the normal way then we will most likely run out of memory when the function builds the array to store the output. So instead we just initialize an <code>sgld</code> object using <code>sgldSetup</code>. Similarly we could build an <code>sgldcv</code> object using <code>sgldcvSetup</code> or an <code>sgnht</code> object using <code>sgnhtSetup</code>. Then we can run the SGLD algorithm one step at a time and decide what to do with the output at each iteration ourselves. We’ll just set our stepsize to <code>1e-4</code> for this example. To make the results reproducible we’ll set the seed to 13.</p>
 <div class="sourceCode"><pre class="sourceCode r"><code class="sourceCode r">stepsize =<span class="st"> </span><span class="fl">1e-4</span>
-sgld =<span class="st"> </span><span class="kw"><a href="../reference/sgldSetup.html">sgldSetup</a></span>(logLik, dataset, params, stepsize, <span class="dt">logPrior =</span> logPrior, <span class="dt">minibatchSize =</span> <span class="dv">500</span>)</code></pre></div>
+sgld =<span class="st"> </span><span class="kw"><a href="../reference/sgldSetup.html">sgldSetup</a></span>(logLik, dataset, params, stepsize, <span class="dt">logPrior =</span> logPrior, 
+        <span class="dt">minibatchSize =</span> <span class="dv">500</span>, <span class="dt">seed =</span> <span class="dv">13</span>)</code></pre></div>
 <p>This <code>sgld</code> object is a type of <code>sgmcmc</code> object, which is basically just a list with a number of entries. The most important of these entries to us is called <code>params</code>, which holds a list, with the same names as you had in the <code>params</code> you fed to <code>sgld</code>, but this list contains <code>tf$Variable</code> objects. This is how you access the tensors which hold your current parameter values in the chain. For more details on the attributes of these objects, see the documentation for <code>sgldSetup</code>, <code>sgldcvSetup</code> etc.</p>
 <p>Now that we have created the <code>sgld</code> object, you want to initialise the TensorFlow graph and the <code>sgmcmc</code> algorithm you’ve chosen. If you are using a standard algorthm, this will just initialise the TensorFlow graph and all the tensors that were created. If you’re using an algorithm with control variates (e.g. <code>sgldcv</code>), then this will also find the MAP estimates of the parameter and calculate the full log posterior gradient at that point. The function we use to do this is <code>initSess</code> as follows</p>
 <div class="sourceCode"><pre class="sourceCode r"><code class="sourceCode r">sess =<span class="st"> </span><span class="kw"><a href="../reference/initSess.html">initSess</a></span>(sgld)</code></pre></div>
